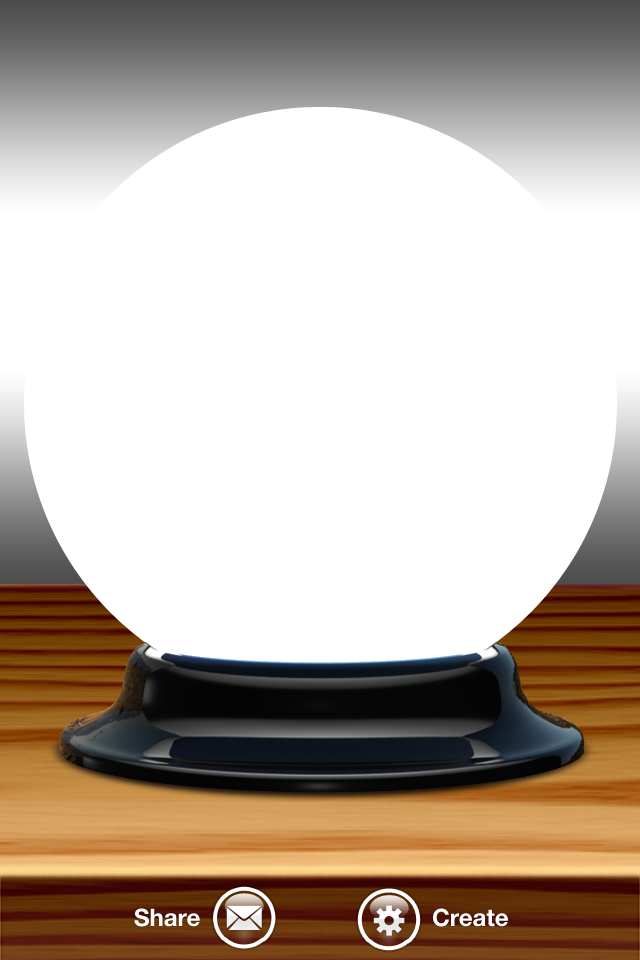
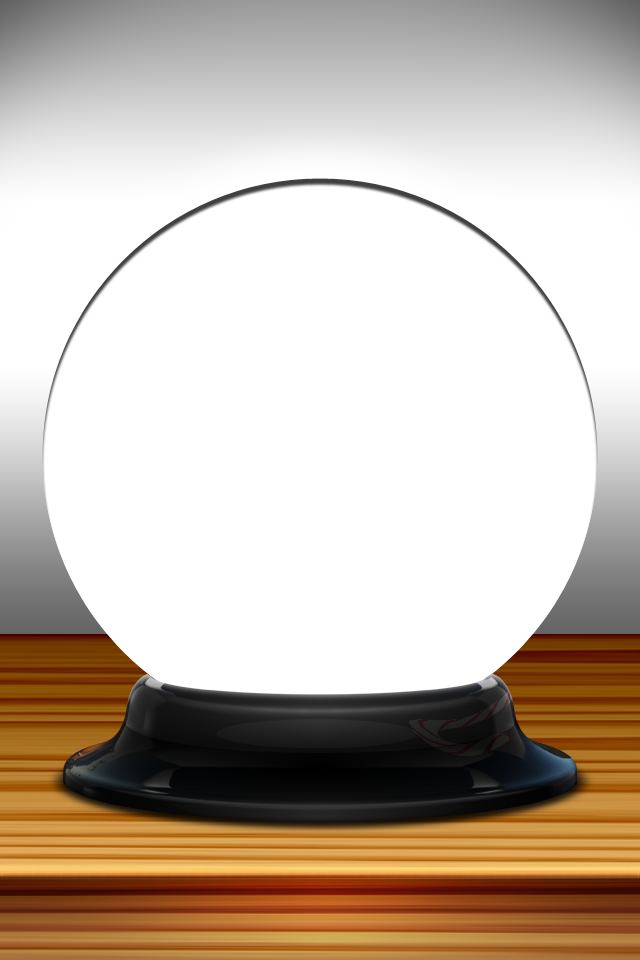
Changed sphere position.

diff --git a/WoollyMammoth/Engine/Render/WMParticleSystem.mm b/WoollyMammoth/Engine/Render/WMParticleSystem.mm
@@ -102,9 +102,8 @@ void WMParticle::update(double dt, double t, int i, Vec3 gravity, WMParticleSyst
 				}
 			}
 		}
-		
-		const float sphereRadius = 0.58f;
-;
+		const float sphereRadius = 0.53f;
+
 		//Constrain to be inside sphere
 		float distanceFromOrigin2 = position.dot(position);
 		if (distanceFromOrigin2 > sphereRadius * sphereRadius) {
@@ -267,7 +266,7 @@ int particleZCompare(const void *a, const void *b) {
 		//Create a VBO to hold our vertex data
 		glGenBuffers(2, particleVBOs);
 	}
-	Vec3 spherePosition = Vec3(0.0f, 0.145f, 0.0f);
+	Vec3 spherePosition = Vec3(0.0f, 0.045f, 0.0f);
 	for (int i=0; i<maxParticles; i++) {
 		particleVertices[i].position = particles[i].position + spherePosition;
 		//copy color as int

diff --git a/WoollyMammoth/Engine/Render/WMSphere.mm b/WoollyMammoth/Engine/Render/WMSphere.mm
@@ -34,7 +34,7 @@ struct WMSphereVertex {
 	unum = 50;
 	vnum = 50;
 	
-	radius = 0.58f;
+	radius = 0.535f;
 	
 	glGenBuffers(1, &vbo);
 	glGenBuffers(1, &ebo);
@@ -52,7 +52,7 @@ struct WMSphereVertex {
 		return nil;
 	}
 	
-	Vec3 spherePosition = Vec3(0.0f, 0.145f, 0.0f);
+	Vec3 spherePosition = Vec3(0.0f, 0.045f, 0.0f);
 	
 	//Add vertices
 	for (int u=0, i=0, indexDataIndex=0; u<unum; u++) {
